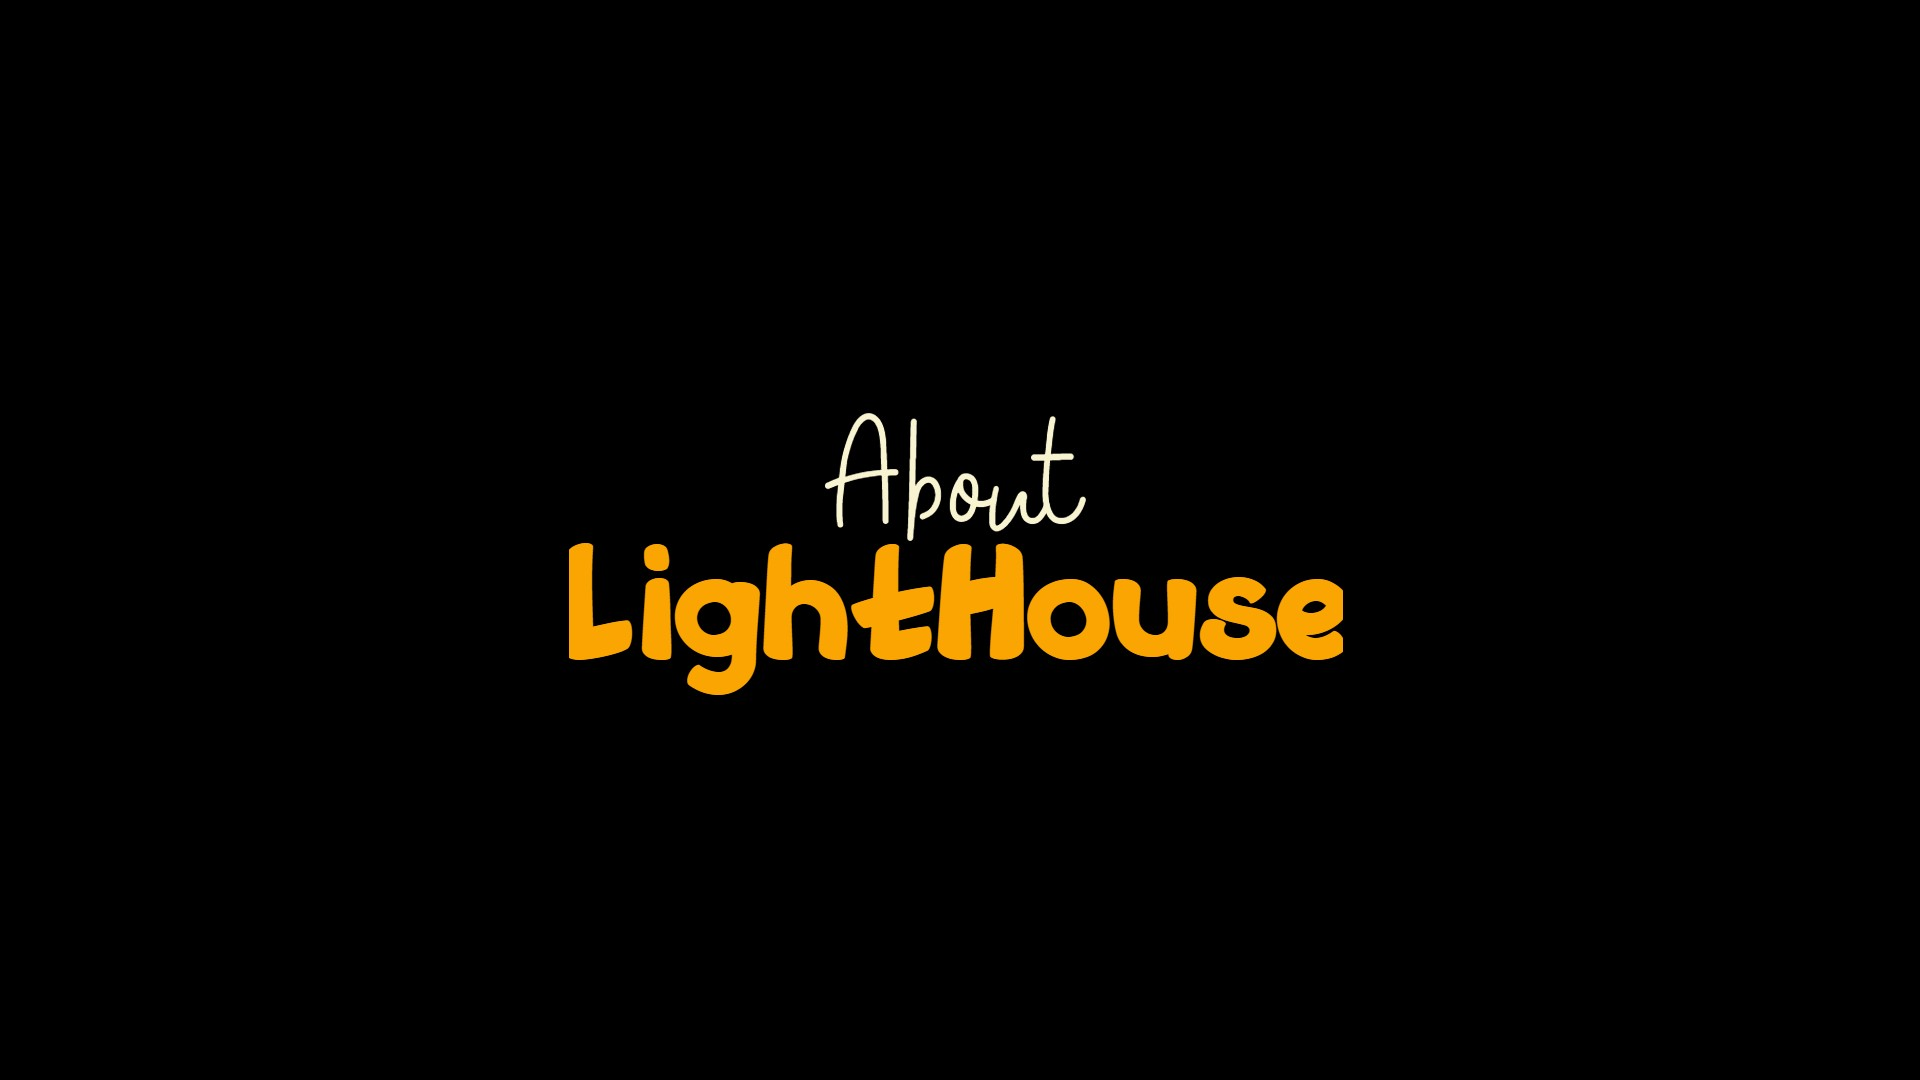
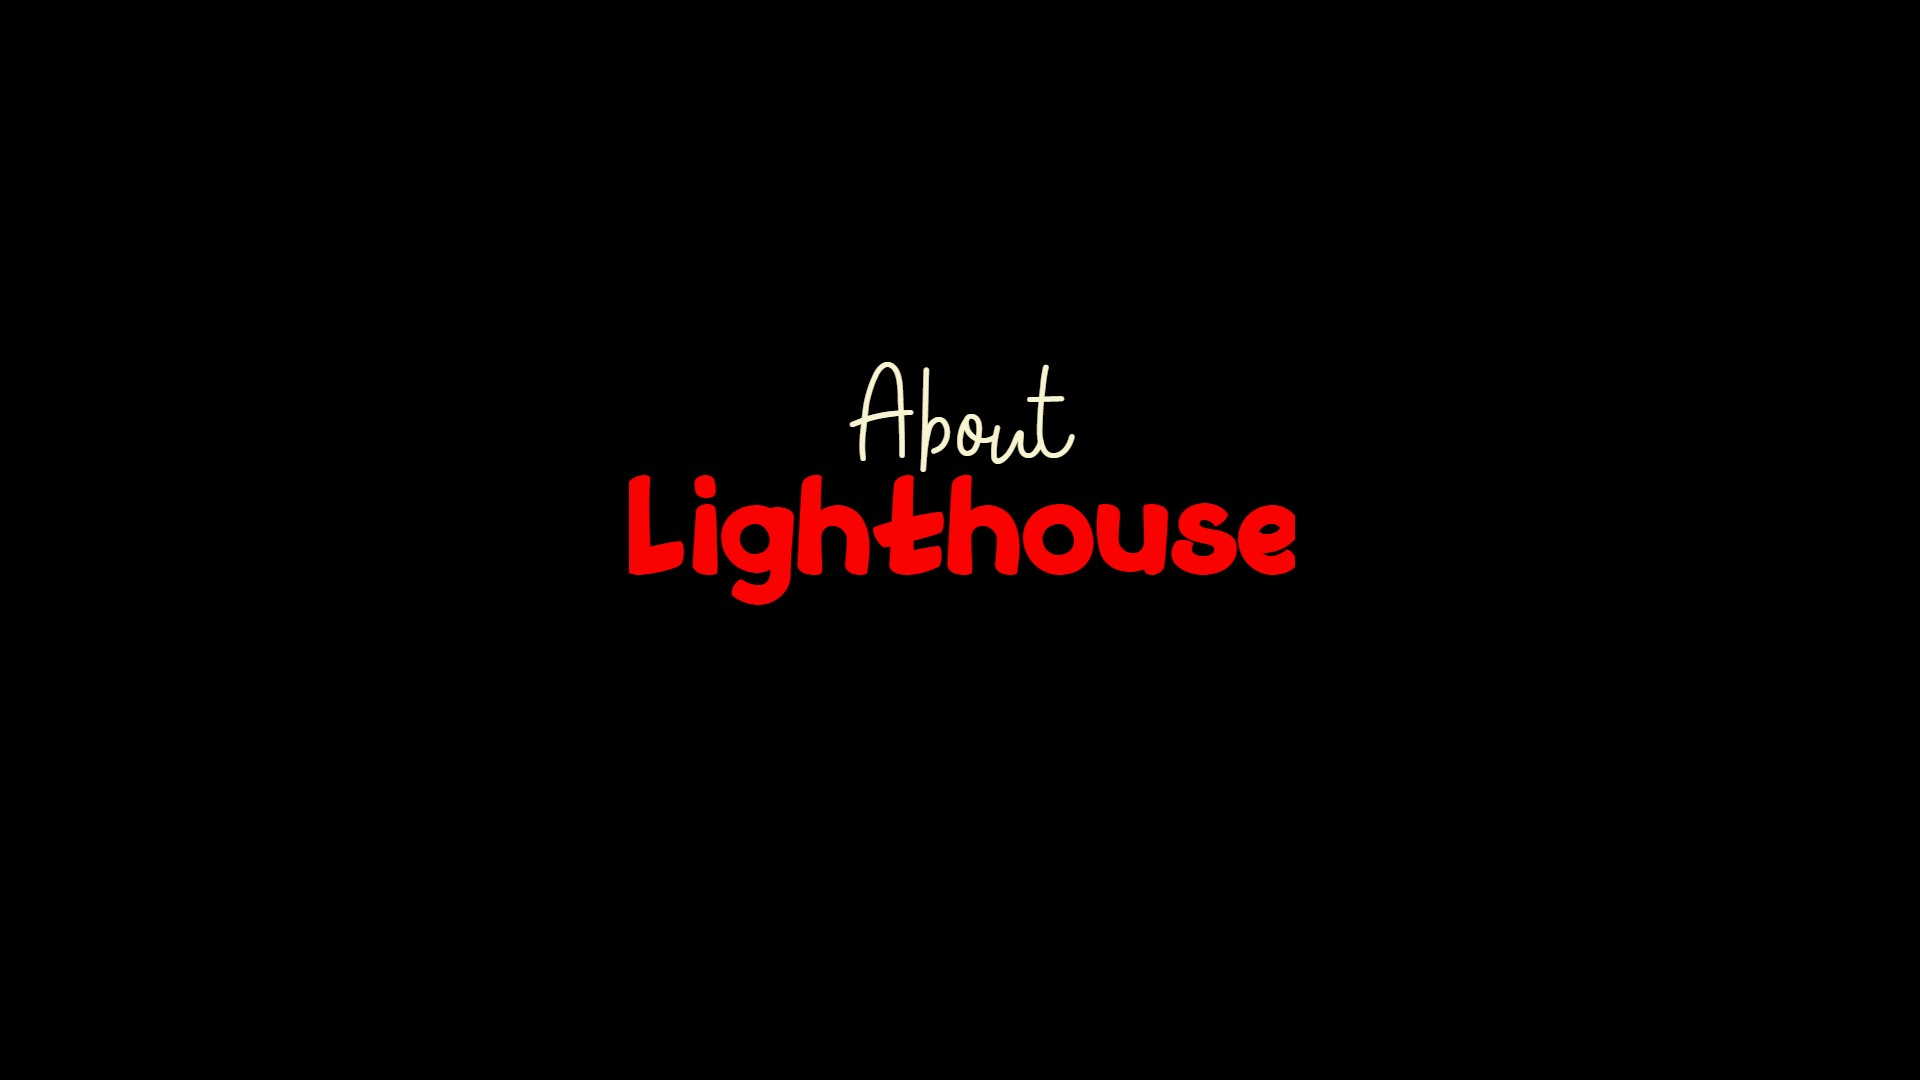
Add files via upload

Changed region(s): [[0.2812, 0.3361, 0.7188, 0.6417]]

diff --git a/style.css b/style.css
@@ -1,8 +1,8 @@
 @import url('https://fonts.googleapis.com/css2?family=Poppins:wght@400;500;600;700;800;900&display=swap');
 :root {
-    --primary-color: #6efc09;
+    --primary-color: #fc0909;
     --primary-color-light: #fffcfa;
-    --primary-color-dark: #7ddb09;
+    --primary-color-dark: #dbaa09;
     --text-dark: #18181b;
     --text-light: #6b7280;
     --white: #ffffff;
@@ -30,12 +30,14 @@
     font-size: 2rem;
     font-weight: 700;
     line-height: 3rem;
-    color: var(--text-dark);
+    /* color: var(--text-dark); */
+    color: white;
     text-align: center;
 }
 
 .section_description {
-    color: var(--text-dark);
+    /* color: var(--text-dark); */
+    color: white;
     line-height: 1.75rem;
     text-align: center;
 }
@@ -64,7 +66,8 @@
 }
 
 .logo a span {
-    color: var(--text-dark);
+    /* color: var(--text-dark); */
+    color: white;
 }
 
 img {
@@ -84,6 +87,8 @@ ul {
 html,
 body {
     scroll-behavior: smooth;
+    background-color: black;
+    color: var(--white);
 }
 
 body {
@@ -172,12 +177,18 @@ nav {
     font-size: 3.5rem;
     font-weight: 700;
     line-height: 4.5rem;
-    color: var(--text-dark);
+    /* color: var(--text-dark); */
+    color: white;
     text-align: center;
 }
 
 .header_content h1 span {
     color: var(--primary-color);
+}
+
+.header_content p {
+    /* color: var(--primary-color); */
+    color: white;
 }
 
 .about_container {
@@ -208,6 +219,7 @@ nav {
 }
 
 .about_content .section_description {
+    color: white;
     margin-bottom: 2rem;
 }
 
@@ -215,7 +227,7 @@ nav {
     font-size: 3.5rem;
     font-weight: 700;
     line-height: 2.5rem;
-    color: var(--text-dark);
+    color: var(--text-light);
     text-align: center;
 }
 
@@ -237,11 +249,12 @@ nav {
 
 .magazine_swiper {
     margin-top: 2rem;
-    max-width: 800px;
+    max-width: 900px;
+    /* max-height: 70vw; */
     margin-inline: auto;
     padding: 3rem 1rem;
     overflow: hidden;
-    box-shadow: 5px 5px 30px rgba(74, 252, 9, 0.5);
+    box-shadow: 5px 5px 10px rgba(252, 9, 9, 0.14);
     border-radius: 2rem;
 }
 
@@ -268,6 +281,10 @@ nav {
     margin-inline: auto;
     padding: 0 .2rem;
     border-radius: 1rem;
+}
+
+.swiper-pagination-bullet {
+    background: var(--white);
 }
 
 .swiper-pagination-bullet-active {
@@ -321,7 +338,7 @@ nav {
     object-fit: cover;
     filter: saturate(100%);
     box-shadow: 5px 5px 15px rgba(0, 0, 0, 0.14);
-    z-index: 10;
+    z-index: 8;
     border-radius: 100%;
     right: -1.1rem;
     top: 32px;
@@ -336,12 +353,12 @@ nav {
     position: absolute;
     width: .7rem;
     height: 100%;
-    background: var(--text-dark);
+    background-color: white;
     top: 0;
     left: 50%;
     margin-left: -3px;
     border-radius: 10px;
-    z-index: -1;
+    z-index: 7;
     animation: moveline 1s linear forwards;
 }
 
@@ -378,6 +395,12 @@ nav {
     left: -15px;
 }
 
+.event_container h1 {
+    font-size: 3rem;
+    text-align: center;
+    padding: 1rem 3rem;
+}
+
 @media(width>768px) {
     nav {
         position: static;
@@ -409,7 +432,8 @@ nav {
         transform: none;
     }
     .nav_links a {
-        color: var(--text-dark);
+        /* color: var(--text-dark); */
+        color: white;
         transition: 0.3s ease-in-out;
     }
     .nav_links a:hover {
@@ -445,6 +469,9 @@ nav {
     }
     .about_content {
         grid-area: 1/1/2/2;
+    }
+    .event_container h1 {
+        text-align: left;
     }
 }
 

diff --git a/index.html b/index.html
@@ -5,7 +5,7 @@
     <meta charset="UTF-8">
     <meta name="viewport" content="width=device-width, initial-scale=1.0">
     <link href="https://cdn.jsdelivr.net/npm/remixicon@4.2.0/fonts/remixicon.css" rel="stylesheet" />
-    <link rel="stylesheet" href="https://cdn.jsdelivr.net/npm/swiper@11/swiper-bundle.min.css" />
+    <link rel="stylesheet" href="https://cdn.jsdelivr.net/npm/swiper@8/swiper-bundle.min.css" />
     <link rel="stylesheet" href="style.css">
     <title>Lighthouse</title>
 </head>
@@ -98,6 +98,7 @@
         </div>
     </section>
     <section class="section_container event_container" id="events">
+        <h1 class="section_header">Our Events in a Timeline</h1>
         <div class="timeline">
             <div class="container left-container">
                 <img src="color.png" alt="" class="blank">
@@ -159,7 +160,7 @@
     </section>
 
     <script src="https://unpkg.com/scrollreveal"></script>
-    <script src="https://cdn.jsdelivr.net/npm/swiper@11/swiper-bundle.min.js"></script>
+    <script src="https://cdn.jsdelivr.net/npm/swiper@8/swiper-bundle.min.js"></script>
     <script src="script.js"></script>
 </body>
 

diff --git a/script.js b/script.js
@@ -49,15 +49,37 @@ ScrollReveal().reveal(".about_content .section_description", {
 });
 
 
-const swiper = new Swiper(".swiper", {
+var MagazineSlider = new Swiper('.swiper', {
+    effect: 'coverflow',
+    grabCursor: true,
+    centeredSlides: true,
     loop: true,
-
-    pagination: {
-        el: ".swiper-pagination",
+    slidesPerView: 'auto',
+    coverFlowEffect: {
+        rotate: 0,
+        stretch: 0,
+        depth: 100,
+        modifier: 2.5,
     },
-
+    pagination: {
+        el: '.swiper-pagination',
+        clickable: true,
+    },
     navigation: {
         nextEl: '.swiper-button-next',
         prevEl: '.swiper-button-prev',
-    },
+    }
 });
+
+// const swiper = new Swiper(".swiper", {
+//     loop: true,
+
+//     pagination: {
+//         el: ".swiper-pagination",
+//     },
+
+//     navigation: {
+//         nextEl: '.swiper-button-next',
+//         prevEl: '.swiper-button-prev',
+//     },
+// });
